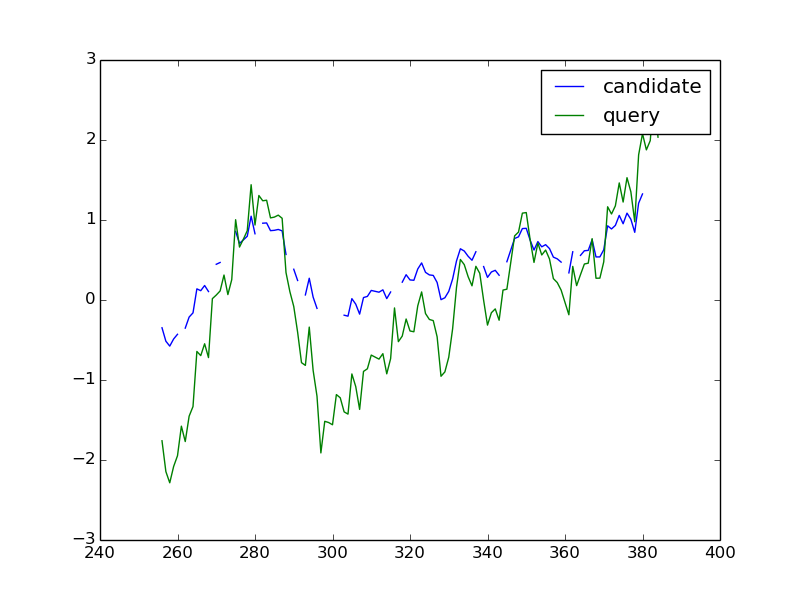
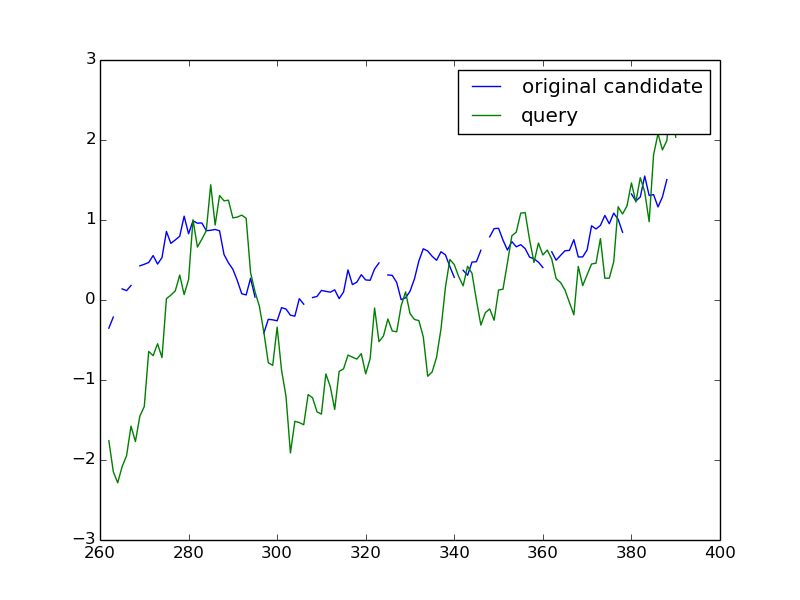
Older method(s)

diff --git a/IrregularTS/irregen_test.py b/IrregularTS/irregen_test.py
@@ -16,14 +16,17 @@ def sqr(z):
 
 #m=int(sys.argv[1])		## Number of points of candidate
 #q=int(sys.argv[2])		## Number of points of query
-n=int(sys.argv[1]) 		## Number of points to be made None
-tol=float(sys.argv[2])		## Tolerance level
+#n=int(sys.argv[1]) 		## Number of points to be made None
+#tol=float(sys.argv[2])		## Tolerance level
+
+n=40
+tol=0.05
 
 
 val=[]
 query=[]
 
-f=open("SampleData.txt","r")
+f=open("SampleCandidateWithMissing.txt","r")
 s1=f.read()
 l1=s1.split()
 for x1 in l1:
@@ -33,7 +36,6 @@ for x1 in l1:
 		y1=float(x1)
 		val.append(y1)
 f.close()
-print("Number of points in Candidate : %d"%len(val))
 
 print("Total points= ",len(val))
 f=open("SampleQuery.txt","r")
@@ -59,22 +61,23 @@ finalquery = [(X - mean) / std for X in query]
 
 q=len(finalquery)
 winsize=int(((1-tol)/2)*q)
-
+'''
 ex = sum(val)
 ex1 = sum(map(sqr, val))
 mean = ex / len(val)
 std = ex1 / len(val)
 std = math.sqrt(std - mean * mean)
 val = [(X - mean) / std for X in val]
-
+'''
 
 for i in range(len(val)):
 	d1[i+1]=val[i]
 
+'''
 for i in range(n):
 	r=randrange(1,len(val))
 	d1[r]=None
-
+'''
 
 finalval=[]
 
@@ -107,7 +110,7 @@ wincount=0
 count=0
 loc1=0
 mahaldist1=100000000
-
+'''
 for i in range(len(finalval)-len(finalquery)+1):
 	x=finalval[i:(i+len(finalquery))]
 	prev=0
@@ -177,7 +180,7 @@ for i in range(len(finalval)-len(finalquery)+1):
 	#print(mahaldist,ml,i)
 
 #-----------remove_end--------------#
-'''
+
 	
 print("Location regular: ",loc1)
 print("Distance regular: ",mahaldist1)
@@ -185,5 +188,5 @@ print("Distance regular: ",mahaldist1)
 pylab.plot([x for x in range((loc1),(loc1+len(finalquery)))],finalval[(loc1):(loc1+len(finalquery))],"-b",label="original candidate")
 pylab.plot([x for x in range((loc1),(loc1+len(finalquery)))],finalquery,"-g",label="query")
 pylab.legend(loc="upper right")
-pylab.savefig("irregplot.png")
+pylab.savefig("irregplot_old.png")
 

diff --git a/IrregularTS/new.py b/IrregularTS/new.py
@@ -58,7 +58,7 @@ std = math.sqrt(std - mean * mean)
 finalquery = [(X - mean) / std for X in query]
 
 q=len(finalquery)
-winsize=int(((1-tol)/2)*q)
+#winsize=int(((1-tol)/2)*q)
 
 ex = sum(val)
 ex1 = sum(map(sqr, val))
@@ -108,42 +108,7 @@ count=0
 loc1=0
 mahaldist1=100000000
 
-for i in range(len(finalval)-len(finalquery)+1):
-	x=finalval[i:(i+len(finalquery))]
-	prev=0
-	j=0
-	md=0
-	count=0
 
-	for k in x:
-		if(k != None):
-			count+=1
-	wincount=0
-	y=[]
-	query=[]
-	while(j<len(x)):
-		if(j % winsize==0):
-			prev=j
-		if(wincount<winsize and x[j]!=None):
-			wincount+=1
-			y.append(x[j])
-			query.append(finalquery[j])
-			j+=1
-
-		elif(x[j]==None):
-			j+=1	
-		elif(wincount==winsize):
-			md+=MahalanobisDist(y,query)
-			wincount=0
-			j=prev
-	
-	md+=MahalanobisDist(y,query)
-	ml=md/count
-	if(mahaldist1>ml):
-                mahaldist1=ml
-                loc1=i
-'''
-#----------remove-----------------------#
 for i in range(len(finalval)-len(finalquery)+1):
 	x=finalval[i:(i+len(finalquery))]
 	prev=0
@@ -176,8 +141,6 @@ for i in range(len(finalval)-len(finalquery)+1):
                 loc1=i
 	#print(mahaldist,ml,i)
 
-#-----------remove_end--------------#
-'''
 	
 print("Location regular: ",loc1)
 print("Distance regular: ",mahaldist1)
